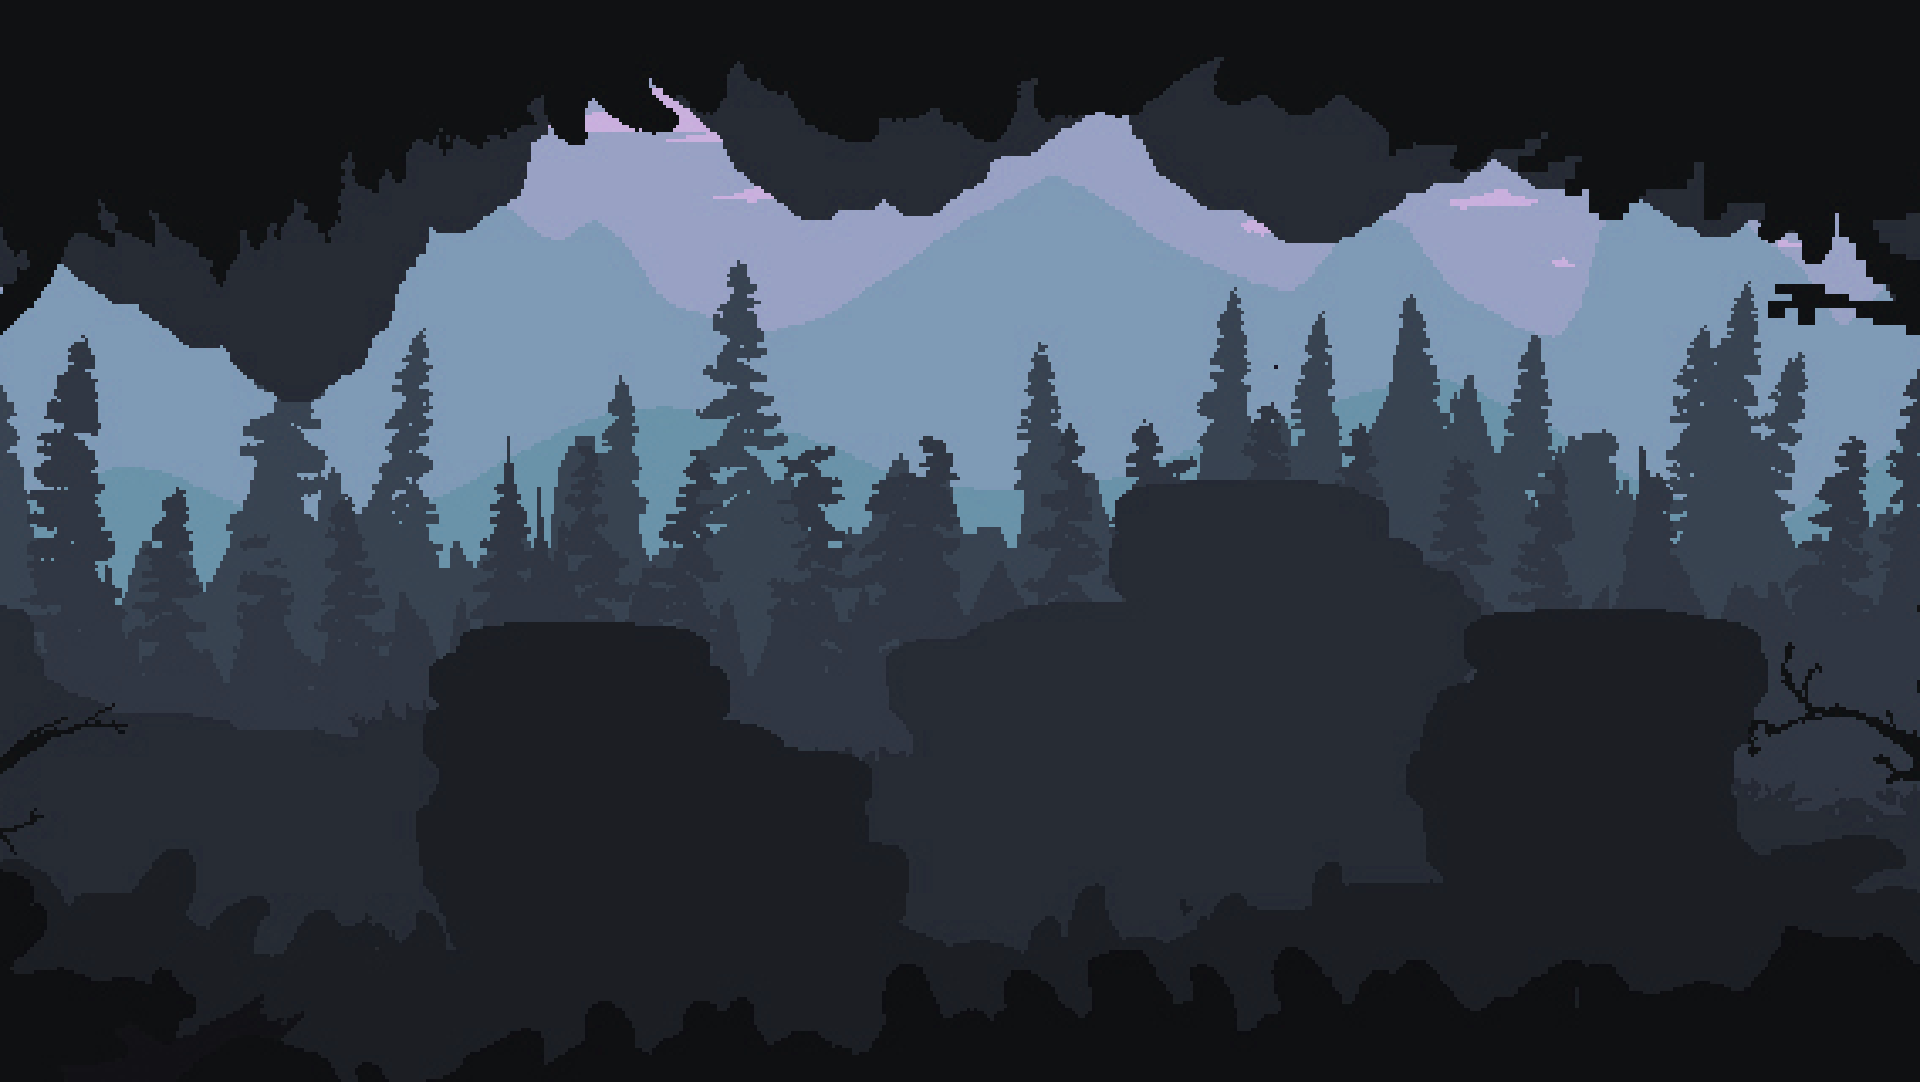
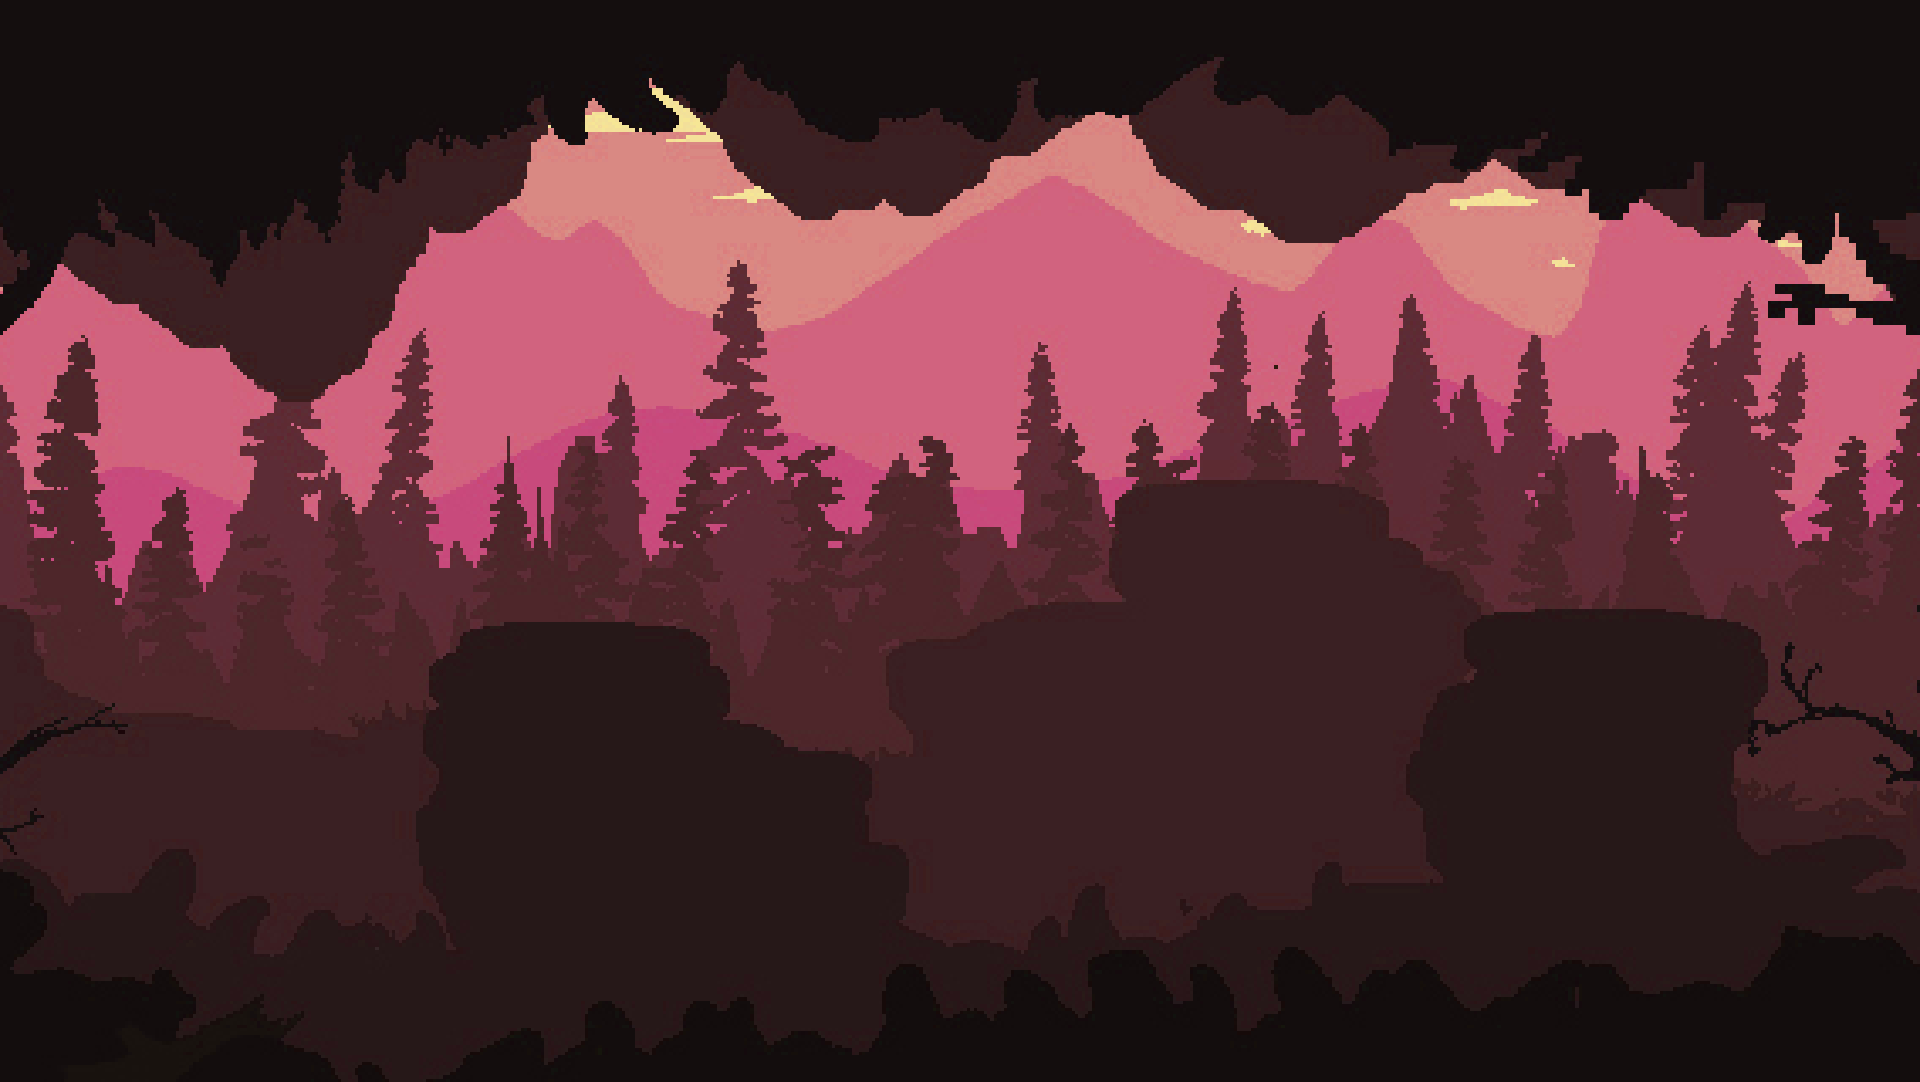
Change background hue

diff --git a/style.css b/style.css
@@ -10,7 +10,7 @@ body {
   background:linear-gradient(
     rgba(0, 0, 0, 0.7), 
     rgba(255, 255, 255, 0.082)
-  ), url(images/background-jkjkke.png);
+  ), url('images/background-jkjkke.png');
   background-position: center;
   background-size: cover;
   background
